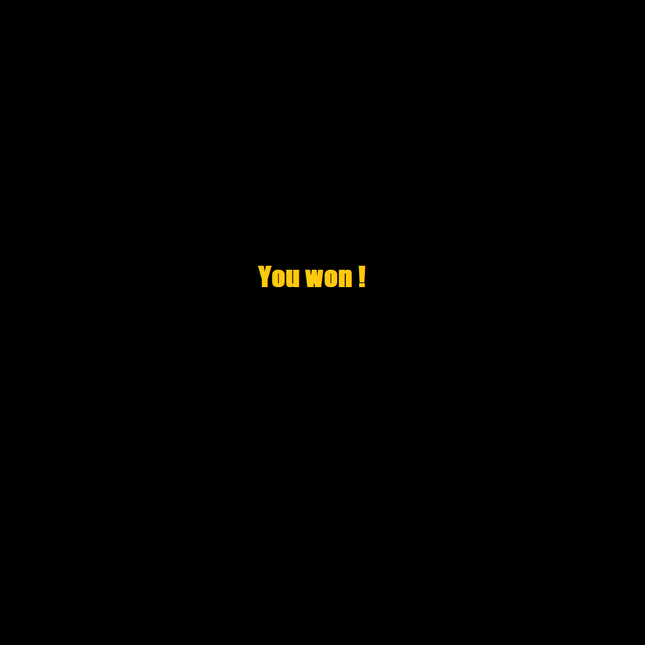
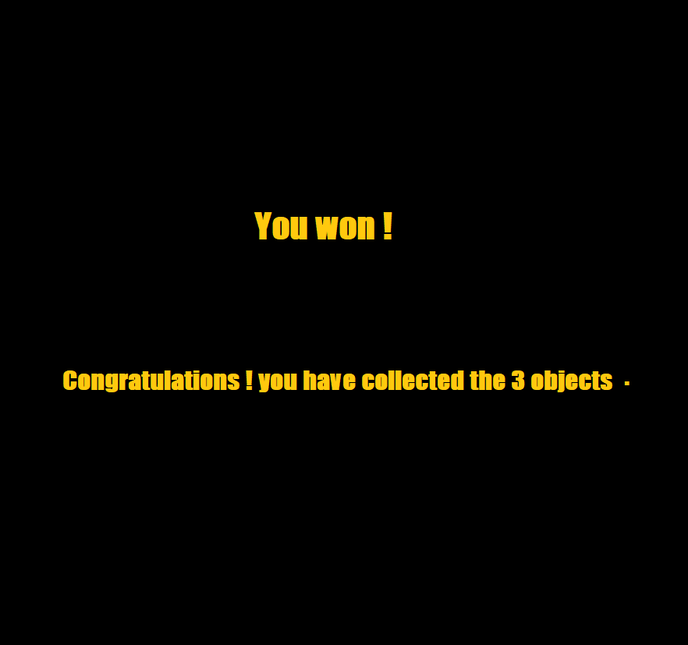
counter score

Changed region(s): [[0.093, 0.5581, 0.8992, 0.6202], [0.3721, 0.3101, 0.5891, 0.3721], [0.4031, 0.4031, 0.5891, 0.4651]]

diff --git a/models.py b/models.py
@@ -99,8 +99,15 @@ class MacGyver(pygame.sprite.Sprite):
             self.rect.y = self.rect.y + sp_size
 
     def get_objets(self):
-        if (self.rect.x, self.rect.y) == self.objets.empty_box[0]:
-            print("yes")
+        if (self.rect.x, self.rect.y) == self.objets.empty_box.get("ether"):
+            self.objets.empty_box.pop("ether")
+            self.pick_up += 1
+        if (self.rect.x, self.rect.y) == self.objets.empty_box.get("tube_platique"):
+            self.objets.empty_box.pop("tube_platique")
+            self.pick_up += 1
+        if (self.rect.x, self.rect.y) == self.objets.empty_box.get("seringue"):
+            self.objets.empty_box.pop("seringue")
+            self.pick_up += 1
 
 class Gardien(pygame.sprite.Sprite):
     def __init__(self, sp_size):
@@ -130,7 +137,12 @@ class Objets(pygame.sprite.Sprite):
             self.structures.append(line)
 
         self.empty_box_list = []
-        self.empty_box = []
+        #content selection three coordinates for items
+        self.empty_box = {
+        "ether": 0,
+        "tube_plastique": 0,
+        "seringue": 0
+        }
         for x, col in enumerate(self.structures):
             for y, case in enumerate(col):
                 pos_x = x*sp_size
@@ -141,23 +153,14 @@ class Objets(pygame.sprite.Sprite):
                     self.empty_box_list.append(pos_empty_box)
 
         # select Three empty position random for objets
-        for i in range(3):
-            self.pos = choice(self.empty_box_list)
-            self.empty_box.append(self.pos)
+        self.empty_box["ether"] = choice(self.empty_box_list)
+        self.empty_box["tube_platique"] = choice(self.empty_box_list)
+        self.empty_box["seringue"] = choice(self.empty_box_list)
 
     def display_objets(self):
-        screen.blit(self.img_ether, self.empty_box[0])
-                
-                
-
-
-
-
-        
-        
-        
-
-
-
-        
-
+        if "ether" in self.empty_box:
+            screen.blit(self.img_ether, self.empty_box.get("ether"))
+        if "tube_platique" in self.empty_box:
+            screen.blit(self.img_tube, self.empty_box.get("tube_platique"))
+        if "seringue" in self.empty_box:
+            screen.blit(self.img_seringue, self.empty_box.get("seringue"))

diff --git a/views.py b/views.py
@@ -8,6 +8,7 @@ from controler import *
 
 
 pygame.init()
+pygame.font.init()
 screen = pygame.display.set_mode((15*sp_size, 15*sp_size))
 
 
@@ -21,19 +22,20 @@ def game():
 	objets = Objets(lab, sp_size)
 	macgyver = MacGyver(lab, sp_size, objets)
 	gardien = Gardien(sp_size)
-	
+	yellow =(255, 255, 0)
+	count_score = pygame.font.SysFont('monospace', 15)
 	pygame.display.flip()
-
 	
 	
-
+	
 	while currentgame:
 
 		#display all sprite of the game 
+		
 		objets.display_objets()
 		screen.blit(gardien.image, (gardien.rect.x, gardien.rect.y))
 		screen.blit(macgyver.image, (macgyver.rect.x, macgyver.rect.y))
-		
+		score = macgyver.pick_up
 
 
 		for event in pygame.event.get():
@@ -52,12 +54,20 @@ def game():
 
 				Lab.init_lab()
 				
+
+			
+
+
 				if gardien.rect.x == macgyver.rect.x and gardien.rect.y == macgyver.rect.y :
-					#if macgyver.pick_up == 3:
+					if macgyver.pick_up == 3:
+						screen.blit(pygame.image.load('ressource/screen_win.png'), (0*sp_size, 0*sp_size))
+					else:
+						screen.blit(pygame.image.load('ressource/screen_gameover.png'), (0*sp_size, 0*sp_size))
 
-					screen.blit(pygame.image.load('ressource/screen_win.png'), (0*sp_size, 0*sp_size))
-
+		text = count_score.render("objets:" + str(score) + "/3", 50, yellow, (0, 0, 0))
+		screen.blit(text, ((645-70)/2, 20))
 		pygame.display.flip() #update window endlessly as long as currentgame is True
+		
 
 
 

diff --git a/variables.py b/variables.py
@@ -6,7 +6,7 @@ screen = pygame.display.set_mode((15*sp_size, 15*sp_size))
 
 lab = [
 "sssssssesssssss",
-"slvvsvvgvvvvvls",
+"slvvsvvgvvsvvls",
 "ssvsvsvsvsvsvss",
 "svvvvvvvvvvvvvs",
 "svsvsvsvsvsvsvs",
